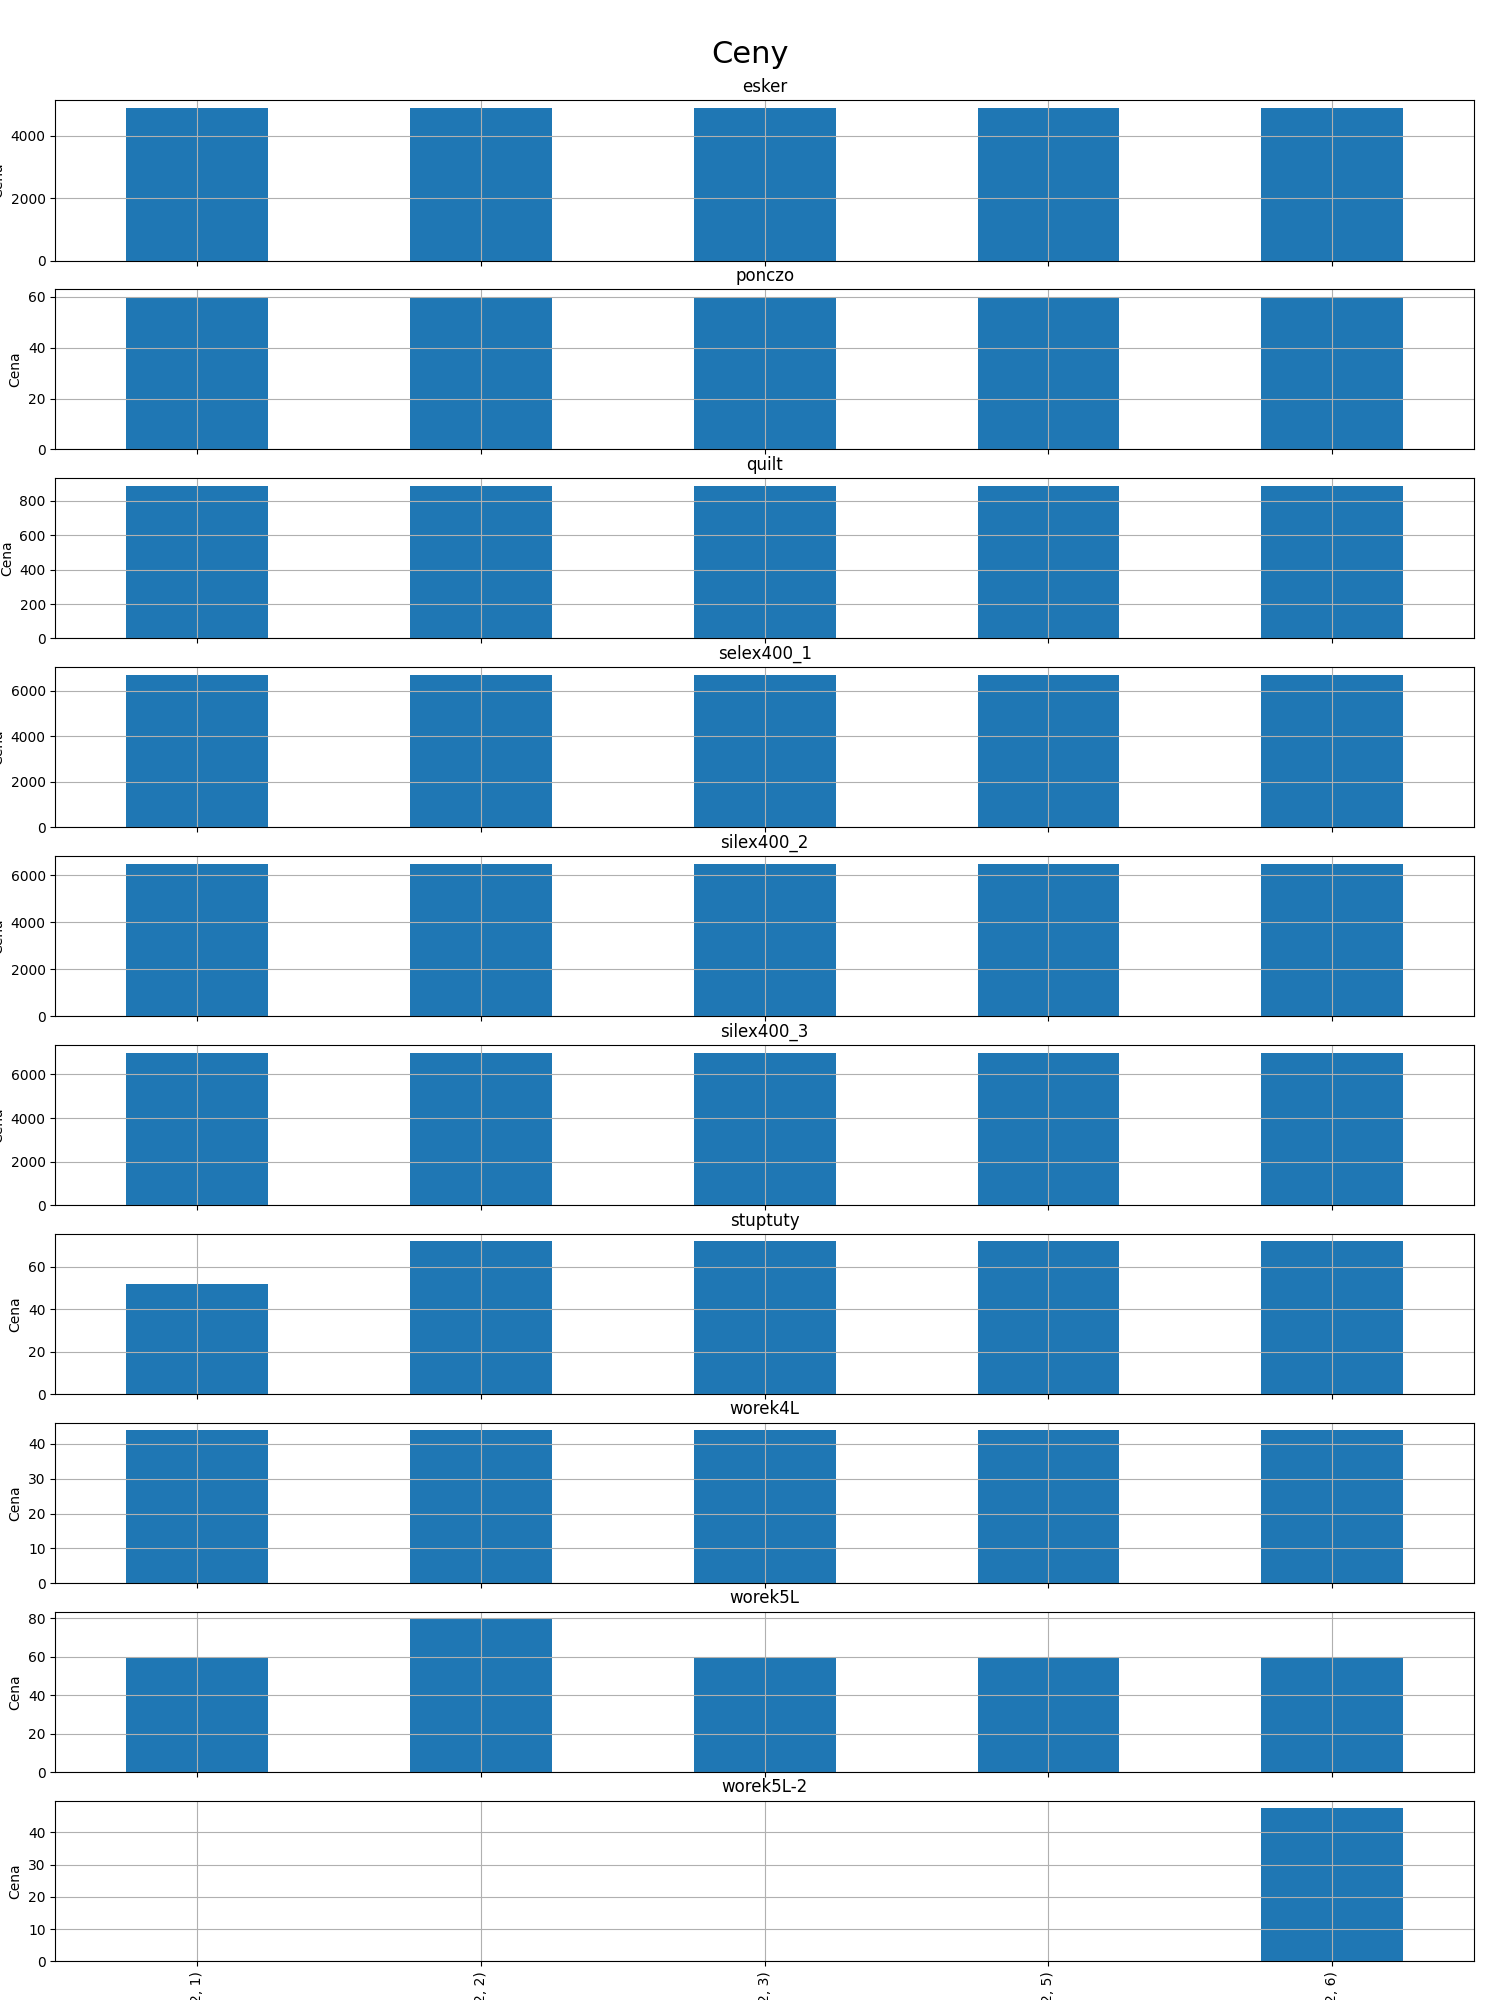
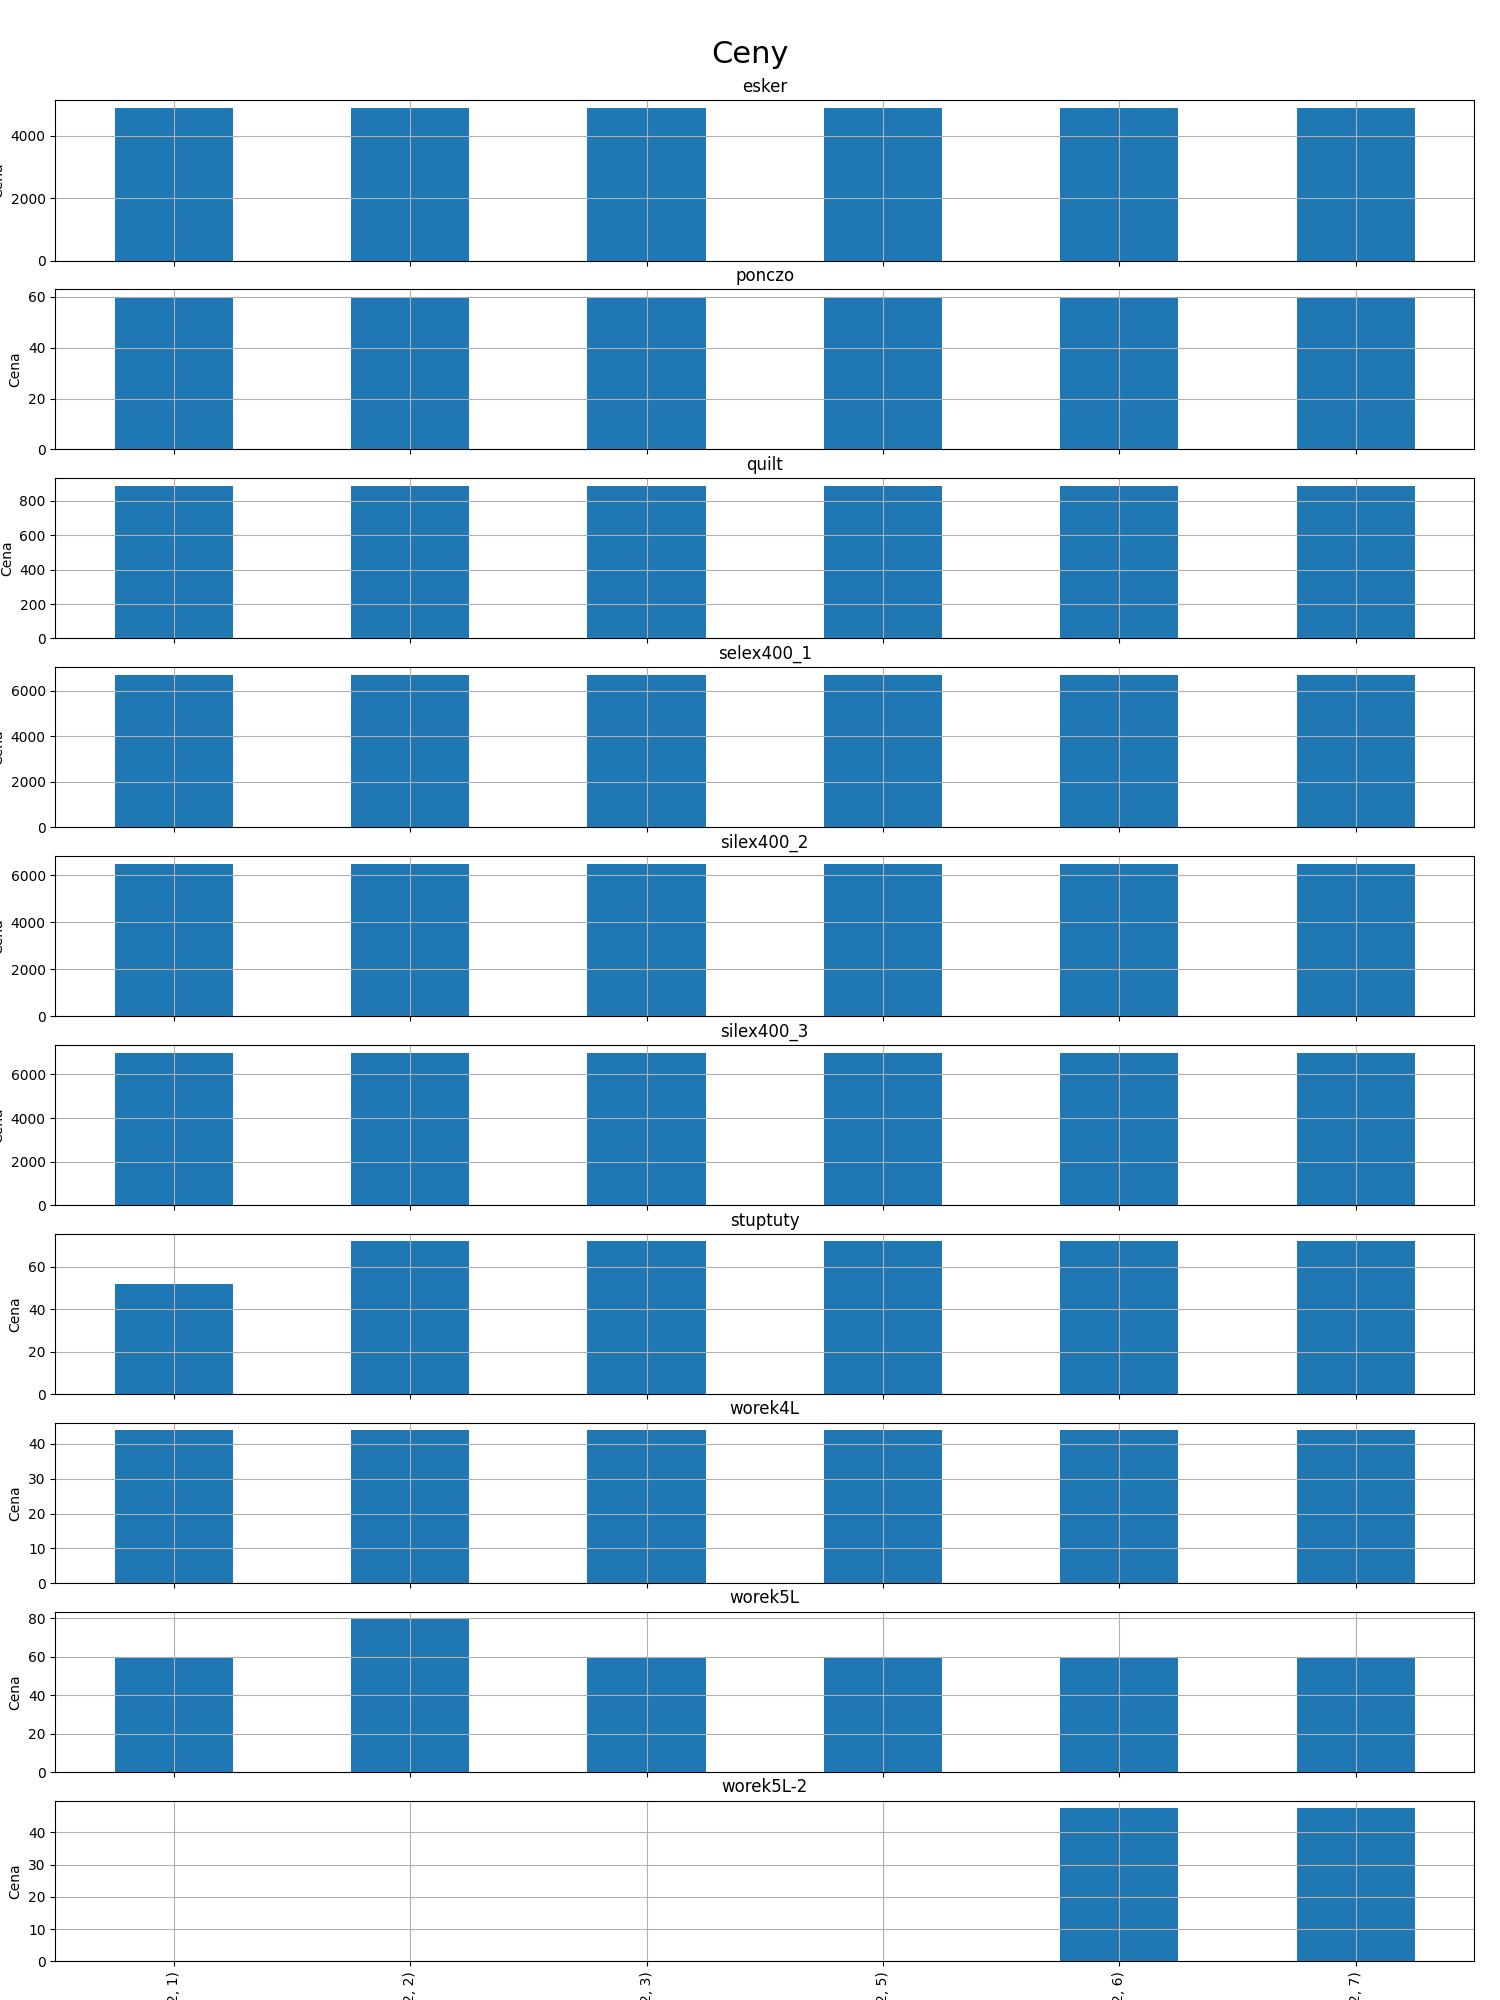
poprawka bledu w piv

diff --git a/mail.html b/mail.html
@@ -102,8 +102,8 @@
   </thead>
   <tbody>
     <tr>
-      <th rowspan="5" valign="top">2020</th>
-      <th rowspan="5" valign="top">12</th>
+      <th rowspan="6" valign="top">2020</th>
+      <th rowspan="6" valign="top">12</th>
       <th>1</th>
       <td>4899.0</td>
       <td>59.99</td>
@@ -157,6 +157,19 @@
     </tr>
     <tr>
       <th>6</th>
+      <td>4899.0</td>
+      <td>59.99</td>
+      <td>889.0</td>
+      <td>6699.0</td>
+      <td>6499.0</td>
+      <td>6999.0</td>
+      <td>71.99</td>
+      <td>43.86</td>
+      <td>59.49</td>
+      <td>47.39</td>
+    </tr>
+    <tr>
+      <th>7</th>
       <td>4899.0</td>
       <td>59.99</td>
       <td>889.0</td>

diff --git a/pandas_operations.py b/pandas_operations.py
@@ -9,10 +9,11 @@ import numpy as np
 import matplotlib.pyplot as plt
 import matplotlib.dates as mdates
 
+
 from glob import glob
 import datetime
+now = datetime.date.today() # data do pliku
 
-now = datetime.date.today()  # data do pliku
 
 # In[2]:
 
@@ -21,25 +22,32 @@ pd.set_option('display.width', None)
 pd.set_option('display.max_rows', None)
 pd.set_option('colheader_justify', 'center')
 
+
 # In[3]:
 
 
 # import starych df
 data_files = sorted(glob('Dane/dane*.csv'))
-df_old = pd.concat((pd.read_csv(file) for file in data_files), ignore_index=True)
-df_old['date'] = pd.to_datetime(df_old['date'])
+df_old=pd.concat((pd.read_csv(file) for file in data_files), ignore_index=True)
+df_old['date']=pd.to_datetime(df_old['date'])
+
 
 # In[4]:
 
 
 df_old.dtypes
 
+
 # In[5]:
 
 
 df_old
 
+
 # In[ ]:
+
+
+
 
 
 # In[6]:
@@ -47,32 +55,38 @@ df_old
 
 from data import dane
 
+
 # In[7]:
 
 
 df_new = pd.DataFrame(dane, columns=['date', 'name', 'url', 'price', 'currency'])
+
 
 # In[8]:
 
 
 df_new
 
+
 # In[9]:
 
 
 df_new.to_csv(f'Dane/dane{now}.csv')
+
 
 # # Mardzin framow
 
 # In[10]:
 
 
-df_all = pd.concat([df_old, df_new], ignore_index=True)
+df_all=pd.concat([df_old, df_new], ignore_index=True)
+
 
 # In[11]:
 
 
 df_all
+
 
 # In[12]:
 
@@ -83,52 +97,61 @@ df_all
 # In[13]:
 
 
-df_produkty = df_all[['name', 'url']].drop_duplicates()
+df_produkty=df_all[['name','url']].drop_duplicates()
 df_produkty
+
 
 # # Pivoty
 
 # In[14]:
 
 
-piv = df_old.pivot_table(index=(df_all.date.dt.year, df_all.date.dt.month, df_all.date.dt.day), columns='name',
-                         values='price', aggfunc=min)
+piv=df_all.pivot_table(index=(df_all.date.dt.year,df_all.date.dt.month,df_all.date.dt.day),columns='name',values='price',aggfunc=min)
+
 
 # In[15]:
 
 
 piv
 
+
 # In[16]:
 
 
-filtr1 = piv.diff().ne(0).any(1)
+filtr1=piv.diff().ne(0).any(1)
+
 
 # In[17]:
 
 
-filtr2 = piv.diff().any(1)
+filtr2=piv.diff().any(1)
+
 
 # In[18]:
 
 
-df_diff = piv[filtr1]
+df_diff=piv[filtr1]
+
 
 # # Ploty
 
 # In[19]:
 
 
-fig, axes = plt.subplots(piv.columns.size, 1, figsize=(15, 20), sharex=True)
+fig, axes = plt.subplots(piv.columns.size,1,figsize=(15,20),sharex=True)
 fig.suptitle('Ceny', fontsize=22)
 fig.tight_layout()
 fig.subplots_adjust(top=0.95)
-for n, a in enumerate(axes.flat):
-    piv.iloc[:, n].plot(ax=a, kind='bar', grid=True)
-    a.set(xlabel=f'(Rok, Miesiąc, Dzien)', ylabel=f'Cena', title=f"{piv.columns[n]}")
+for n,a in enumerate(axes.flat):
+    piv.iloc[:,n].plot(ax=a,kind='bar',grid=True)
+    a.set(xlabel=f'(Rok, Miesiąc, Dzien)', ylabel=f'Cena',title=f"{piv.columns[n]}")
 
-plt.savefig('Fig/graph.png')
+plt.savefig('Fig/graph.png',transparent=False)
 # plt.show()
 
 
 # In[ ]:
+
+
+
+

diff --git a/main.py b/main.py
@@ -29,6 +29,7 @@ def send_email(body):
 def write_to_file(content):
     with open('mail.html', 'w') as f:
         print(content, file=f)
+    print("Mail zapisany")
 
 
 def prepare_mail(content):
